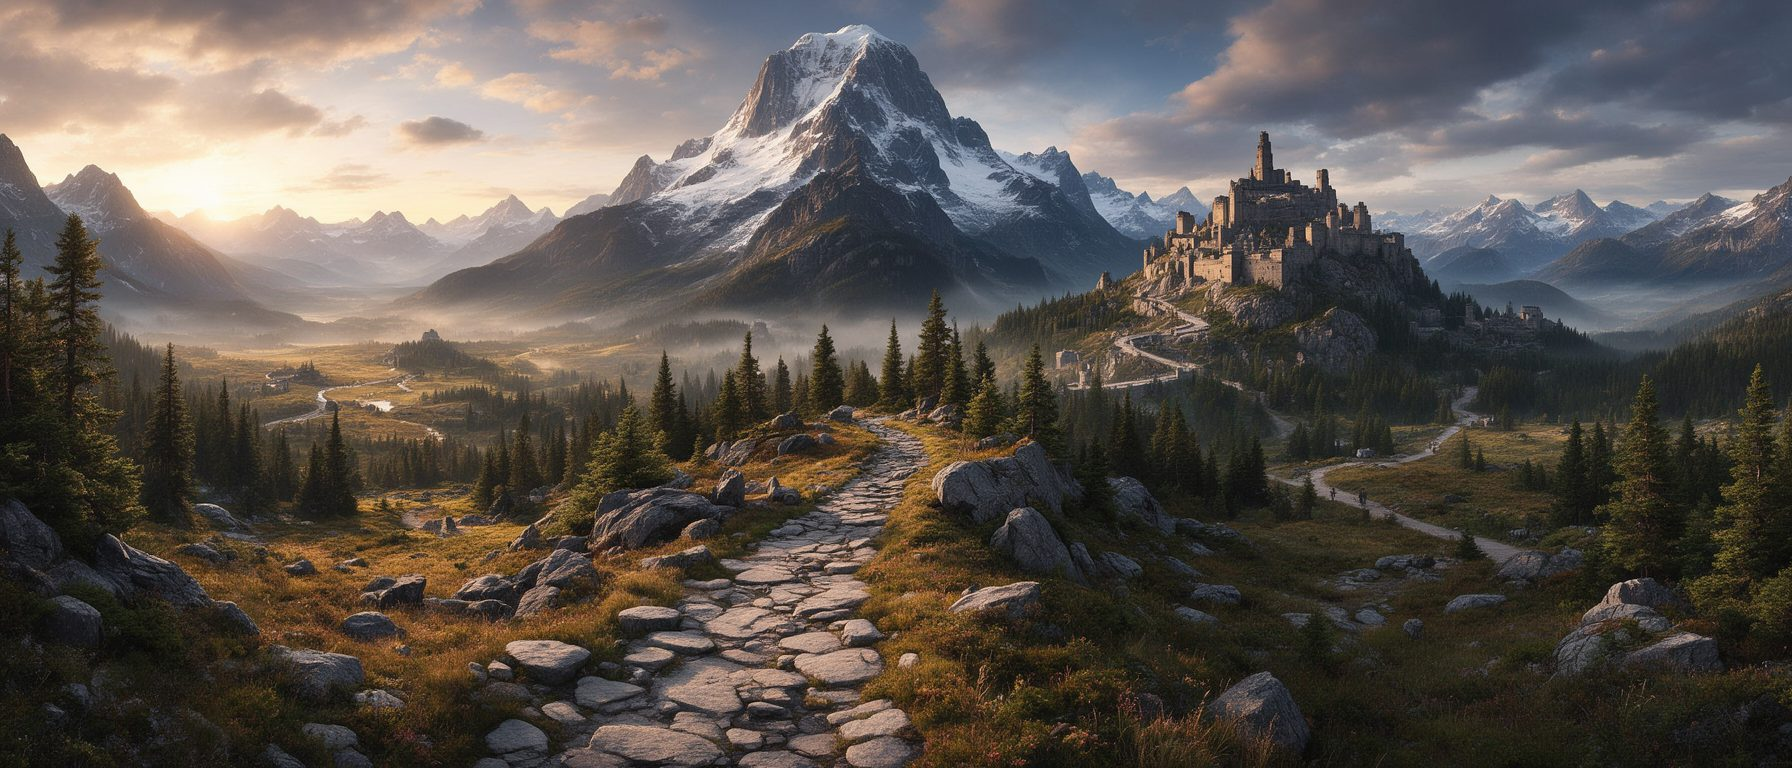
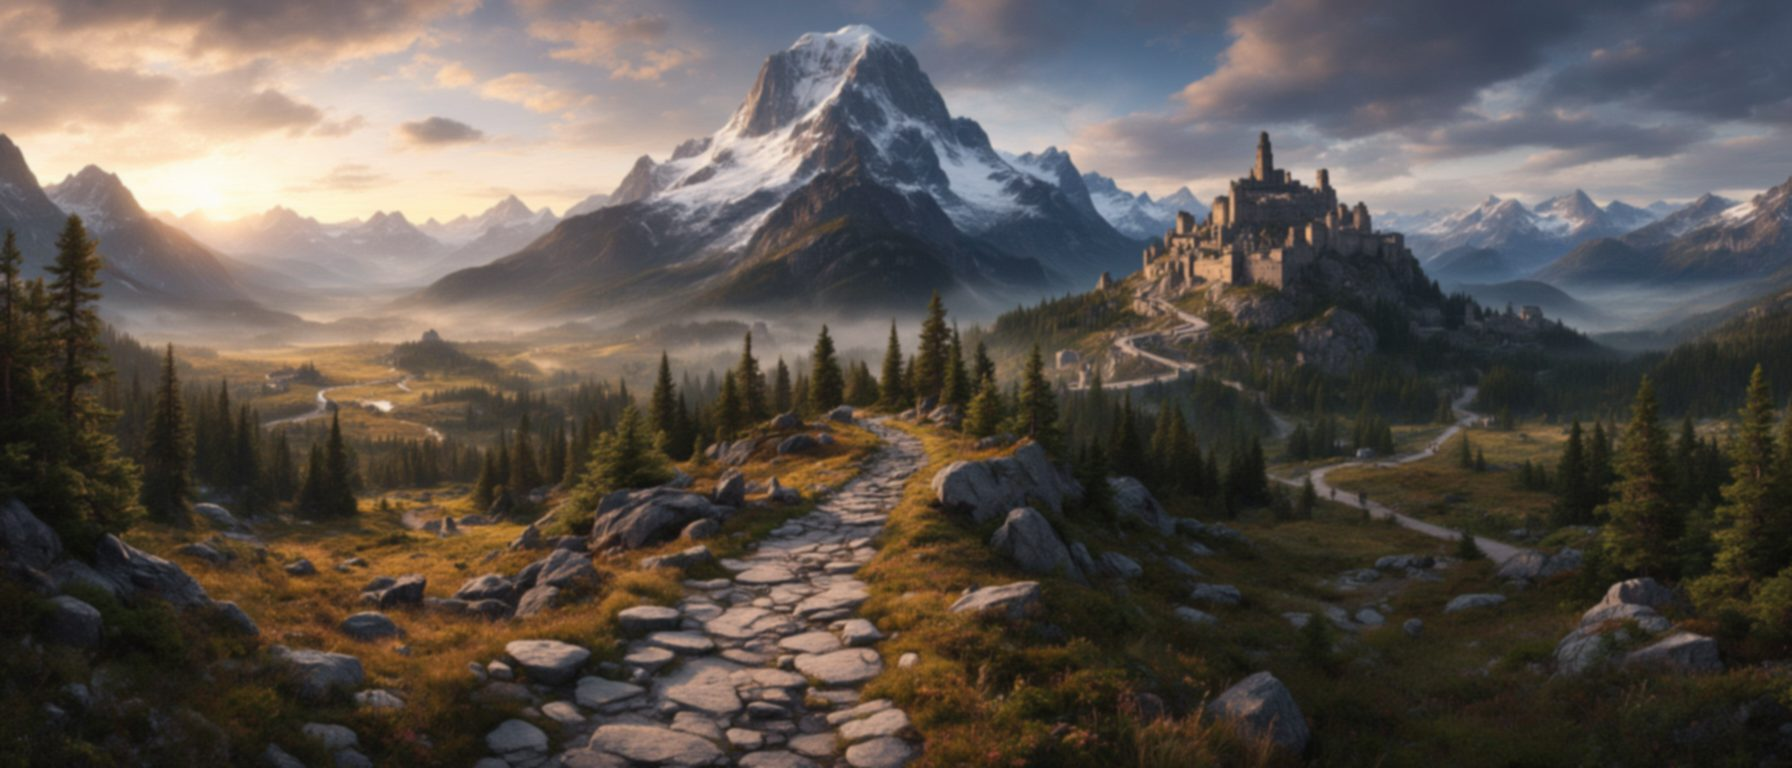
Performance : flous cuits dans les images (profondeur de champ, panorama, fond des cartes) au lieu de filtres recalculés sur les vidéos, boucle de dessin vide retirée, animations en pause hors écran ; corrige la ligne claire au bord des illustrations

diff --git a/assets/js/home.js b/assets/js/home.js
@@ -32,26 +32,12 @@ document.addEventListener('pointermove',e=>{const c=e.target.closest&&e.target.c
 /* liquide */
 const lt=$('#lt');let t=0;(function f(){t+=.004;if(!RM)lt.setAttribute('baseFrequency',`${.004+Math.sin(t)*.0012} ${.007+Math.cos(t*.9)*.002}`);requestAnimationFrame(f)})();
 
-/* activité dans les illustrations : particules à profondeur de champ, selon l'ambiance du chapitre */
+/* vidéos des illustrations : lecture seulement à l'écran ; animations CSS en pause hors écran */
 (function(){const RMx=matchMedia('(prefers-reduced-motion: reduce)').matches;
-document.querySelectorAll('.hero-img,.hero[data-fx]').forEach(box=>{const fx=box.dataset.fx,cv=box.querySelector('canvas.fx'),c=cv.getContext('2d');let W=0,H=0,P=[],on=false,raf=0;
- const N=0;  /* particules retirées à la demande */
- const mk=()=>({x:Math.random()*W,y:Math.random()*H,z:Math.random(),s:Math.random()*6.28,t:Math.random()*6.28});
- function size(){const r=box.getBoundingClientRect();W=cv.width=Math.max(1,r.width);H=cv.height=Math.max(1,r.height);P=Array.from({length:N},mk)}
- size();new ResizeObserver(size).observe(box);
- function frame(){if(!on)return;c.clearRect(0,0,W,H);
-  for(const p of P){const z=p.z,r=.8+z*z*(fx==='glint'?2.2:4.2),bl=Math.abs(z-.5)*2*9;p.s+=.012;p.t+=.03;
-   if(fx==='snow'){p.y+=.3+z*1.4;p.x+=Math.sin(p.s)*(.25+z*.6);c.fillStyle=`rgba(235,244,255,${.3+z*.55})`;c.shadowColor='#bfe3ff'}
-   else if(fx==='blizzard'){p.y+=.35+z*1.5;p.x-=.5+z*1.6+Math.sin(p.s)*.3;c.fillStyle=`rgba(240,247,255,${.25+z*.55})`;c.shadowColor='#cfe8ff'}
-   else if(fx==='ember'){p.y-=.25+z*1.0;p.x+=Math.sin(p.s)*(.3+z*.5);c.fillStyle=`rgba(255,${150+z*90|0},70,${.25+z*.6})`;c.shadowColor='#ff9a2e'}
-   else if(fx==='dawn'){p.y-=.1+z*.38;p.x+=.18+Math.sin(p.s)*.35;c.fillStyle=`rgba(255,226,150,${.15+z*.5})`;c.shadowColor='#ffd27a'}
-   else if(fx==='dust'){p.y-=.12+z*.3;p.x+=.2+z*.5+Math.sin(p.s)*.3;c.fillStyle=`rgba(210,220,255,${.2+z*.5})`;c.shadowColor='#a5b4fc'}
-   else{p.x+=Math.sin(p.s)*.12;p.y+=Math.cos(p.s)*.1;const tw=.5+.5*Math.sin(p.t);c.fillStyle=`rgba(190,235,255,${(.1+z*.8)*tw})`;c.shadowColor='#7dd3fc'}
-   if(p.y>H+10)p.y=-10;if(p.y<-10)p.y=H+10;if(p.x>W+10)p.x=-10;if(p.x<-10)p.x=W+10;
-   c.shadowBlur=bl+3;c.beginPath();c.arc(p.x,p.y,r,0,6.283);c.fill()}
-  raf=requestAnimationFrame(frame)}
- const vids=[...box.querySelectorAll('video.vfx')];
- new IntersectionObserver(es=>{on=es[0].isIntersecting;vids.forEach(v=>{if(on&&!RMx){v.preload='auto';v.playbackRate=+v.dataset.r||1;v.play().catch(()=>{})}else v.pause()});cancelAnimationFrame(raf);if(on&&!RMx)frame();else if(on){frame();cancelAnimationFrame(raf)}}).observe(box);
+document.querySelectorAll('.hero-img,.hero').forEach(box=>{const vids=[...box.querySelectorAll('video.vfx')];
+ new IntersectionObserver(es=>{const on=es[0].isIntersecting;box.classList.toggle('off',!on);
+  vids.forEach(v=>{if(on&&!RMx){v.preload='auto';v.playbackRate=+v.dataset.r||1;v.play().catch(()=>{})}else v.pause()})}).observe(box);
+ if(!box.classList.contains('hero-img'))return;
  box.addEventListener('pointermove',e=>{const r=box.getBoundingClientRect();box.style.setProperty('--mx',((e.clientX-r.left)/r.width*2-1).toFixed(3));box.style.setProperty('--my',((e.clientY-r.top)/r.height*2-1).toFixed(3))});
  box.addEventListener('pointerleave',()=>{box.style.setProperty('--mx',0);box.style.setProperty('--my',0)});
 });})();

diff --git a/assets/css/site.css b/assets/css/site.css
@@ -102,6 +102,13 @@ footer .cta{margin-bottom:46px}footer h2{font-size:clamp(36px,5vw,72px);letter-s
 nav{white-space:nowrap}nav a.l{white-space:nowrap}
 @media(max-width:700px){nav{padding-left:10px}nav b{display:none}}
 
+/* performance : flous cuits dans les images, aucun filtre recalculé à chaque image */
+.hero-img .dof,.hero-img .dof2{display:none}
+.hero-img .chip{backdrop-filter:none;-webkit-backdrop-filter:none;background:color-mix(in srgb,var(--card) 80%,transparent)}
+.tile{backdrop-filter:none;-webkit-backdrop-filter:none}
+.pano{filter:none}
+.hero .mist,.hero-img .mist{filter:none}
+.off .pano,.off .mist{animation-play-state:paused}
 /* galerie de captures des fiches applis */
 .shots{padding:4vh max(16px,5vw) 12vh;max-width:1240px;margin:auto}
 .shots h2{font-size:clamp(32px,5vw,64px);letter-spacing:-.04em;font-weight:700;text-align:center;margin-bottom:44px}
